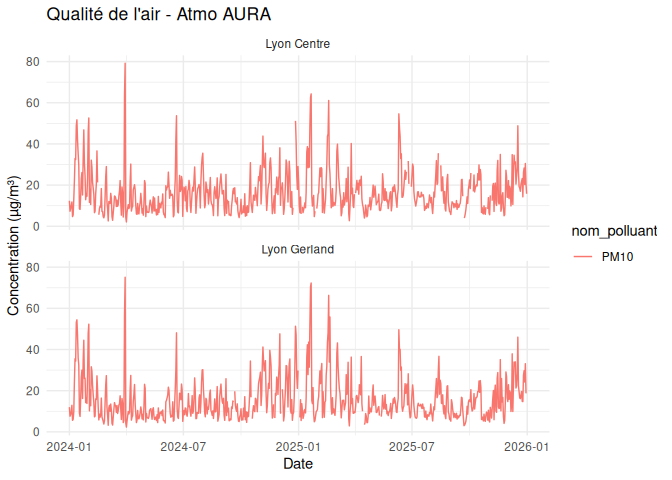
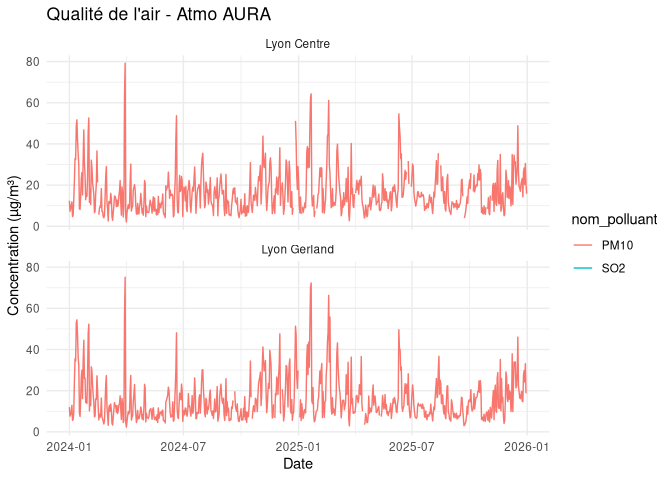
get atmo hourly merge

diff --git a/README.md b/README.md
@@ -71,8 +71,9 @@ stations_cibles <- df_stations_ref |>
 df_mesures <- get_atmo_bulk(
   df_stations = stations_cibles, 
   polluant_id = c("24", "01"), 
-  annee_debut = 2024, 
-  annee_fin = 2025
+  date_debut  = "2024-01-01",
+  date_fin    = "2025-01-03",
+  hourly      = FALSE
 )
 ```
 
@@ -108,5 +109,8 @@ ggplot(df_mesures, aes(x = date, y = valeur, color = nom_polluant)) +
   labs(title = "Qualité de l'air - Atmo AURA",
        y = "Concentration (µg/m³)", x = "Date")
 ```
+
+    ## Warning: Removed 4 rows containing missing values or values outside the scale range
+    ## (`geom_line()`).
 
 ![](README_files/figure-gfm/unnamed-chunk-1-1.png)<!-- -->
